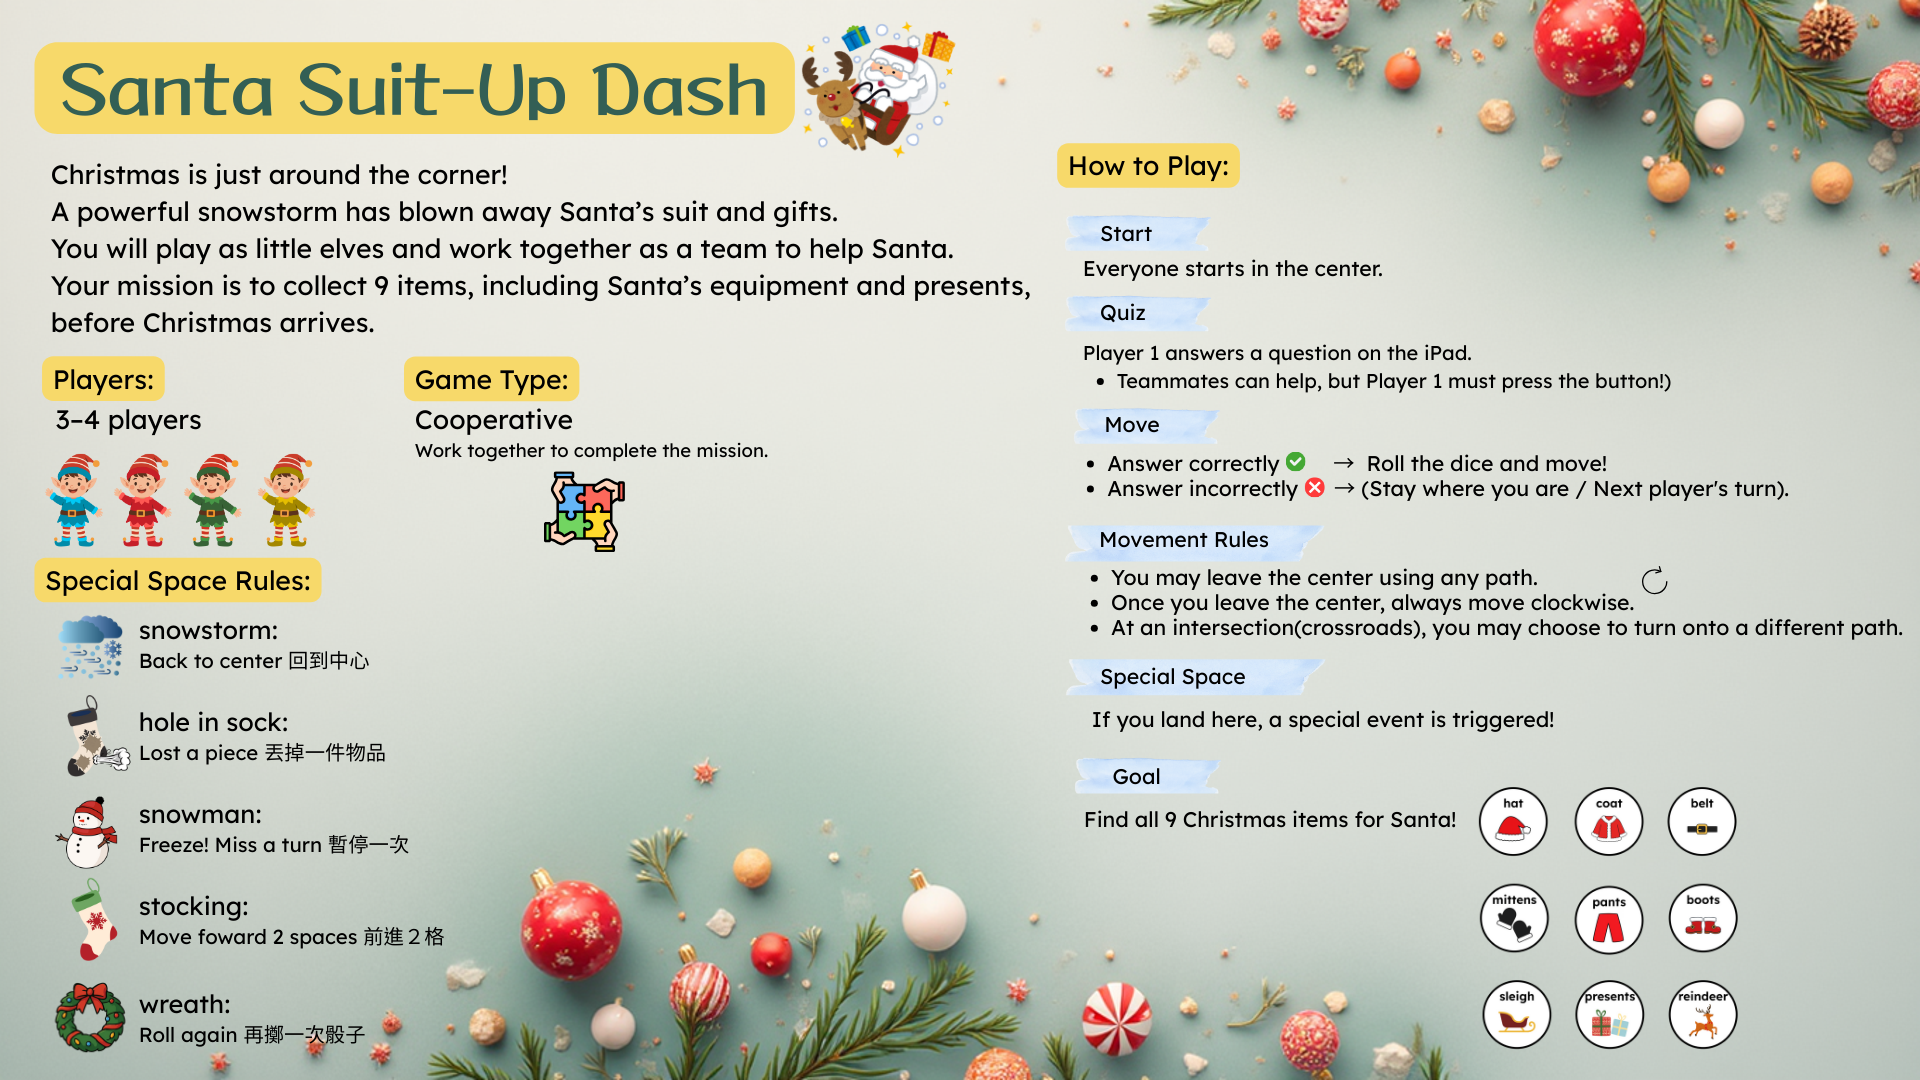
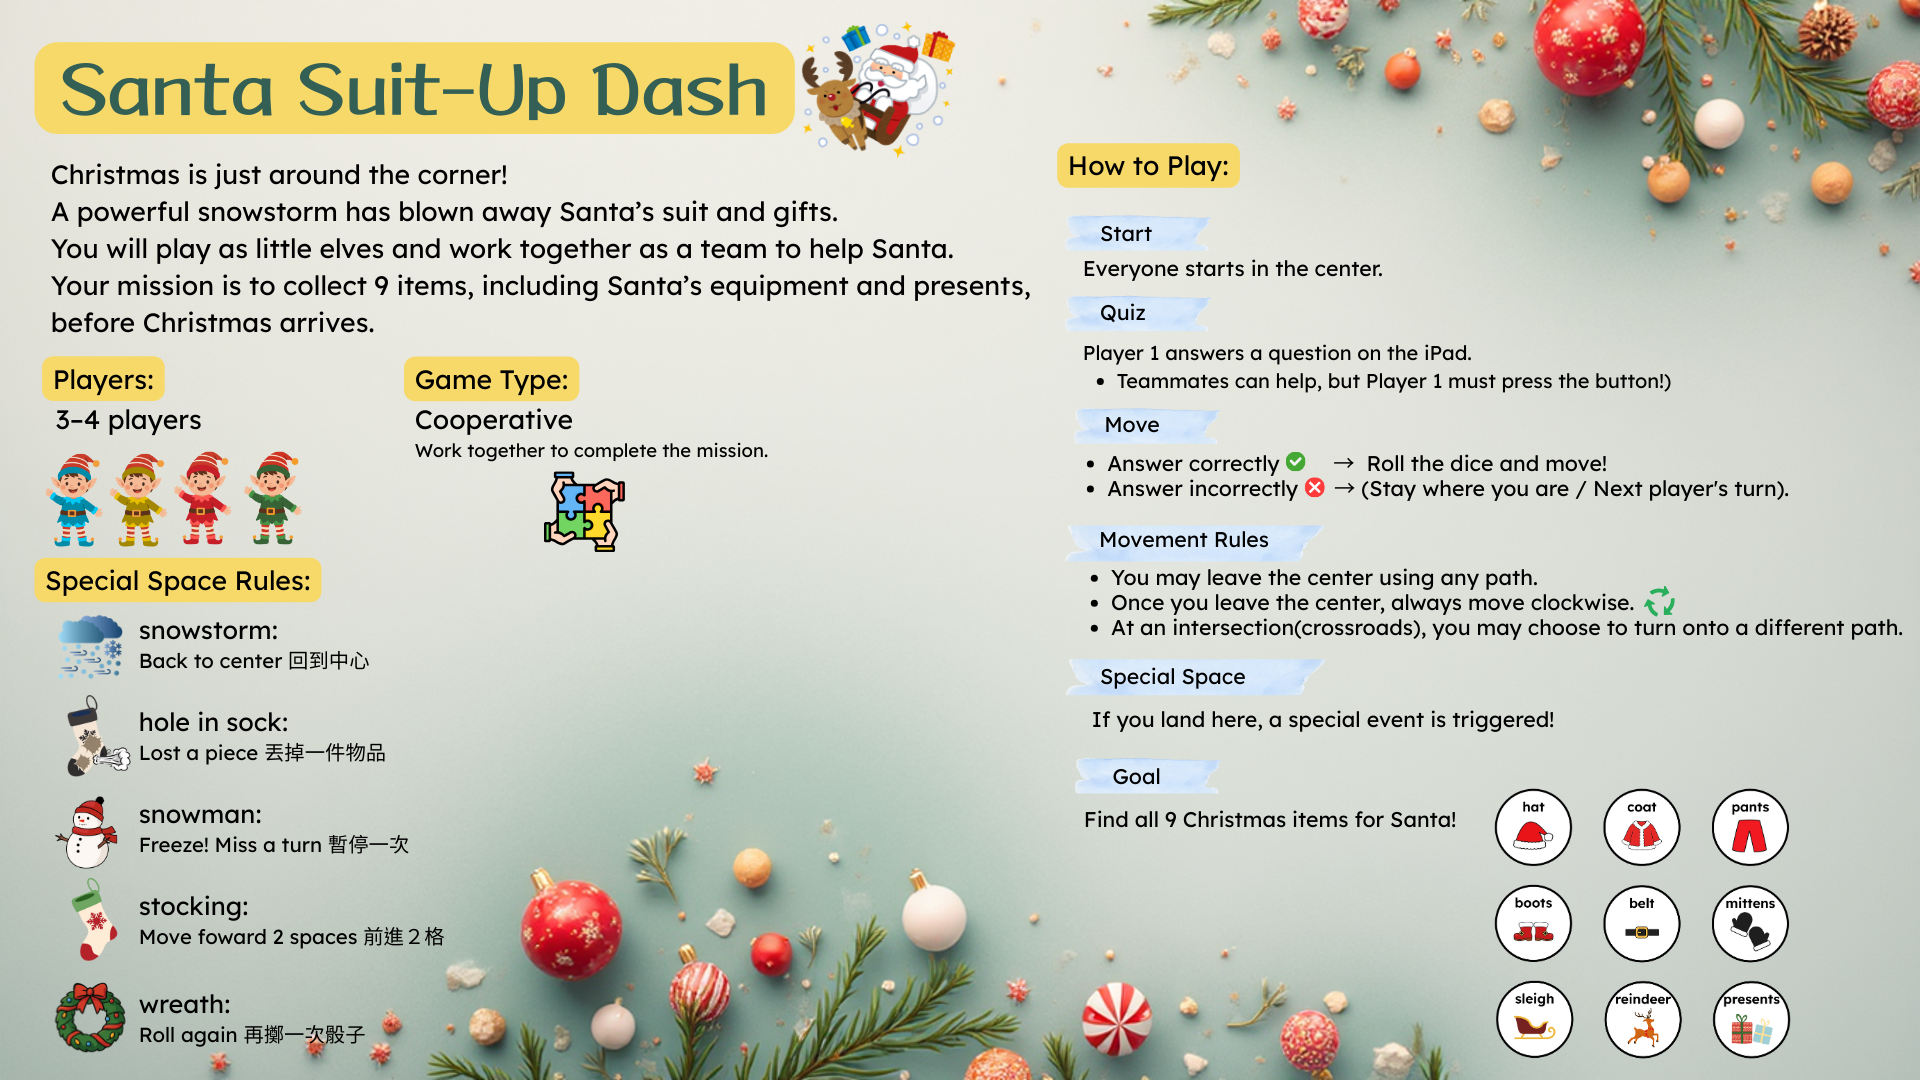
Minor update
1. Remove init player on start
2. Update player color to aline with physical board game
3. Update rules (presents grid)

Changed region(s): [[0.75, 0.7333, 0.9375, 0.9778], [0.0625, 0.3972, 0.1562, 0.5194], [0.8438, 0.5194, 0.875, 0.5806]]

diff --git a/boardgame/index.html b/boardgame/index.html
@@ -172,10 +172,11 @@
         .player-btn.active { border-color: #333; transform: scale(1.2); z-index: 10; box-shadow: 0 0 10px rgba(0,0,0,0.2); }
         .player-btn.frozen { opacity: 0.5; cursor: not-allowed; border-color: #00BCD4; background: #E0F7FA; }
         
-        .p-blue { background: #42A5F5; color: white; }
-        .p-yellow { background: #F57F17; color: white; }
-        .p-pink { background: #EC407A; color: white; }
-        .p-purple { background: #AB47BC; color: white; }
+        /* 更新玩家顏色樣式 */
+        .p-green { background: #43A047; color: white; } /* Player 0 */
+        .p-yellow { background: #F57F17; color: white; } /* Player 1 */
+        .p-red { background: #E53935; color: white; } /* Player 2 */
+        .p-blue { background: #1E88E5; color: white; } /* Player 3 */
 
         #dice-area { display: flex; align-items: center; gap: 15px; margin-bottom: 15px; }
         #dice-btn {
@@ -391,11 +392,12 @@
         <h2>Santa's Suit-Up Dash</h2>
         <div class="subtitle">Work together! Help Santa find his gear!</div>
         
+        <!-- 更新玩家按鈕 Class -->
         <div id="player-controls">
-            <div class="player-btn p-blue active" onclick="setPlayer(0)" title="Blue Elf">🧝</div>
+            <div class="player-btn p-green active" onclick="setPlayer(0)" title="Green Elf">🧝</div>
             <div class="player-btn p-yellow" onclick="setPlayer(1)" title="Yellow Elf">🧝♀</div>
-            <div class="player-btn p-pink" onclick="setPlayer(2)" title="Pink Elf">🧝</div>
-            <div class="player-btn p-purple" onclick="setPlayer(3)" title="Purple Elf">🧝♀</div>
+            <div class="player-btn p-red" onclick="setPlayer(2)" title="Red Elf">🧝</div>
+            <div class="player-btn p-blue" onclick="setPlayer(3)" title="Blue Elf">🧝♀</div>
         </div>
 
         <div id="dice-area">
@@ -439,10 +441,11 @@
 
 <script>
     const players = [
-        { color: '#42A5F5', name: 'Blue', id: 0, x: 500, y: 500, isSkipped: false },
+        // 為了不重複，將原本的 Blue(0) 改為 Green，Purple(3) 改為 Blue
+        { color: '#43A047', name: 'Green', id: 0, x: 500, y: 500, isSkipped: false },
         { color: '#F57F17', name: 'Yellow', id: 1, x: 500, y: 500, isSkipped: false },
-        { color: '#EC407A', name: 'Pink', id: 2, x: 500, y: 500, isSkipped: false },
-        { color: '#AB47BC', name: 'Purple', id: 3, x: 500, y: 500, isSkipped: false }
+        { color: '#E53935', name: 'Red', id: 2, x: 500, y: 500, isSkipped: false },
+        { color: '#1E88E5', name: 'Blue', id: 3, x: 500, y: 500, isSkipped: false }
     ];
     let currentPlayerId = 0;
     // 使用 Map 來記錄每個物品的數量
@@ -475,12 +478,14 @@
         "boots": { type: "gear", icon: "👢", name: "Boots" },
         "gingerbread": { type: "bonus", icon: "🍪", name: "Gingerbread" },
         "presents": { type: "gear", icon: "🎁", name: "Presents" },
+        // Stockings type改為bonus
         "stockings": { type: "bonus", icon: "🧦", name: "Stockings" },
         "hat": { type: "gear", icon: "🧢", name: "Hat" },
         "miss a turn": { type: "trap", icon: "🛑", name: "Miss a Turn" },
         "snowman": { type: "trap", icon: "⛄", name: "Snowman" },
-        "wreath": { type: "deco", icon: "🎄", name: "Wreath" },
-        "christmas tree": { type: "deco", icon: "🎄", name: "Wreath" }, 
+        // Wreath type改為bonus
+        "wreath": { type: "bonus", icon: "🎄", name: "Wreath" },
+        "christmas tree": { type: "bonus", icon: "🎄", name: "Wreath" }, // Alias
         "lost a piece": { type: "trap", icon: "💨", name: "Lost a Piece" },
         "move back 1 space": { type: "trap", icon: "🔙", name: "Move Back" },
         "move ahead 2 spaces": { type: "bonus", icon: "⏩", name: "Move Ahead 2" },
@@ -541,6 +546,7 @@
     // Initialize on load with default settings
     window.onload = function() {
         initStage();
+        initTokens();
         
         // 恢復自動讀取 config.txt
         fetch('config.txt')
@@ -747,17 +753,8 @@
         const div = document.createElement('div');
         div.className = 'gear-badge';
         div.id = `badge-${item.id}`;
-        
-        const imgPath = assets[item.id];
-        
-        // 增加一個顯示數量的 span 元素 (預設隱藏)
-        let content = `
-            <img src="${imgPath}" class="gear-img-icon" alt="${item.id}" onerror="this.style.display='none'; this.nextElementSibling.style.display='block';">
-            <span class="gear-icon" style="display:none; font-size: 24px; margin-bottom: 5px;">${item.icon}</span>
-            <span class="item-count">0</span>
-        `;
-        
-        div.innerHTML = `${content}<div style="font-weight:bold">${item.id}</div>`;
+        let emojiBackup = `<span class="gear-icon">${item.icon}</span>`;
+        div.innerHTML = `${emojiBackup}<div style="font-weight:bold">${item.id}</div>`;
         gearGrid.appendChild(div);
     });
 
@@ -770,10 +767,11 @@
             circle.setAttribute("fill", p.color);
             circle.setAttribute("class", "elf-token");
             circle.id = `token-${p.id}`;
+            // Hidden initially
+            circle.style.display = 'none';
             tokenLayer.appendChild(circle);
         });
     }
-    initTokens();
 
     function setPlayer(id) {
         currentPlayerId = id;
@@ -817,6 +815,8 @@
         const offsetX = (playerId % 2 === 0 ? -10 : 10);
         const offsetY = (playerId < 2 ? -10 : 10);
         const token = document.getElementById(`token-${playerId}`);
+        // Make token visible on first move
+        token.style.display = 'block';
         if (isInner) innerGroup.appendChild(token); else tokenLayer.appendChild(token);
         token.setAttribute("cx", x + offsetX);
         token.setAttribute("cy", y + offsetY);
@@ -869,13 +869,19 @@
 
         if (data.type === 'bonus') {
             if (data.name === "Candy Cane") {
-                msgBox.innerHTML = `${pName}: 🍬 <b>Candy Cane!</b> Move 1 space forward.`;
+                // Corrected grammar
+                msgBox.innerHTML = `${pName}: 🍬 <b>Candy Cane!</b> Yummy! Nothing happened...`;
             } else if (data.name === "Gingerbread" || data.name === "Move Ahead 2") {
-                msgBox.innerHTML = `${pName}: 🍪 <b>${data.name}!</b> Move 2 spaces.`;
+                // Corrected grammar
+                msgBox.innerHTML = `${pName}: 🍪 <b>${data.name}!</b> Yummy! Nothing happened...`;
             } else if (data.name === "Stockings") {
-                msgBox.innerHTML = `${pName}: 🧦 <b>Stockings!</b> Lucky! Roll Again!`;
+                // Update text to Move 2 spaces
+                msgBox.innerHTML = `${pName}: 🧦 <b>Stockings!</b> Move forward 2 spaces!`;
             } else if (data.name === "Star") {
                 msgBox.innerHTML = `${pName}: ⭐ <b>Star!</b> Super Bonus!`;
+            } else if (data.name === "Wreath") {
+                // Wreath is now Roll Again
+                msgBox.innerHTML = `${pName}: 🎄 <b>Wreath!</b> Roll Again!`;
             }
             msgBox.style.borderLeftColor = "#E91E63";
             return;
